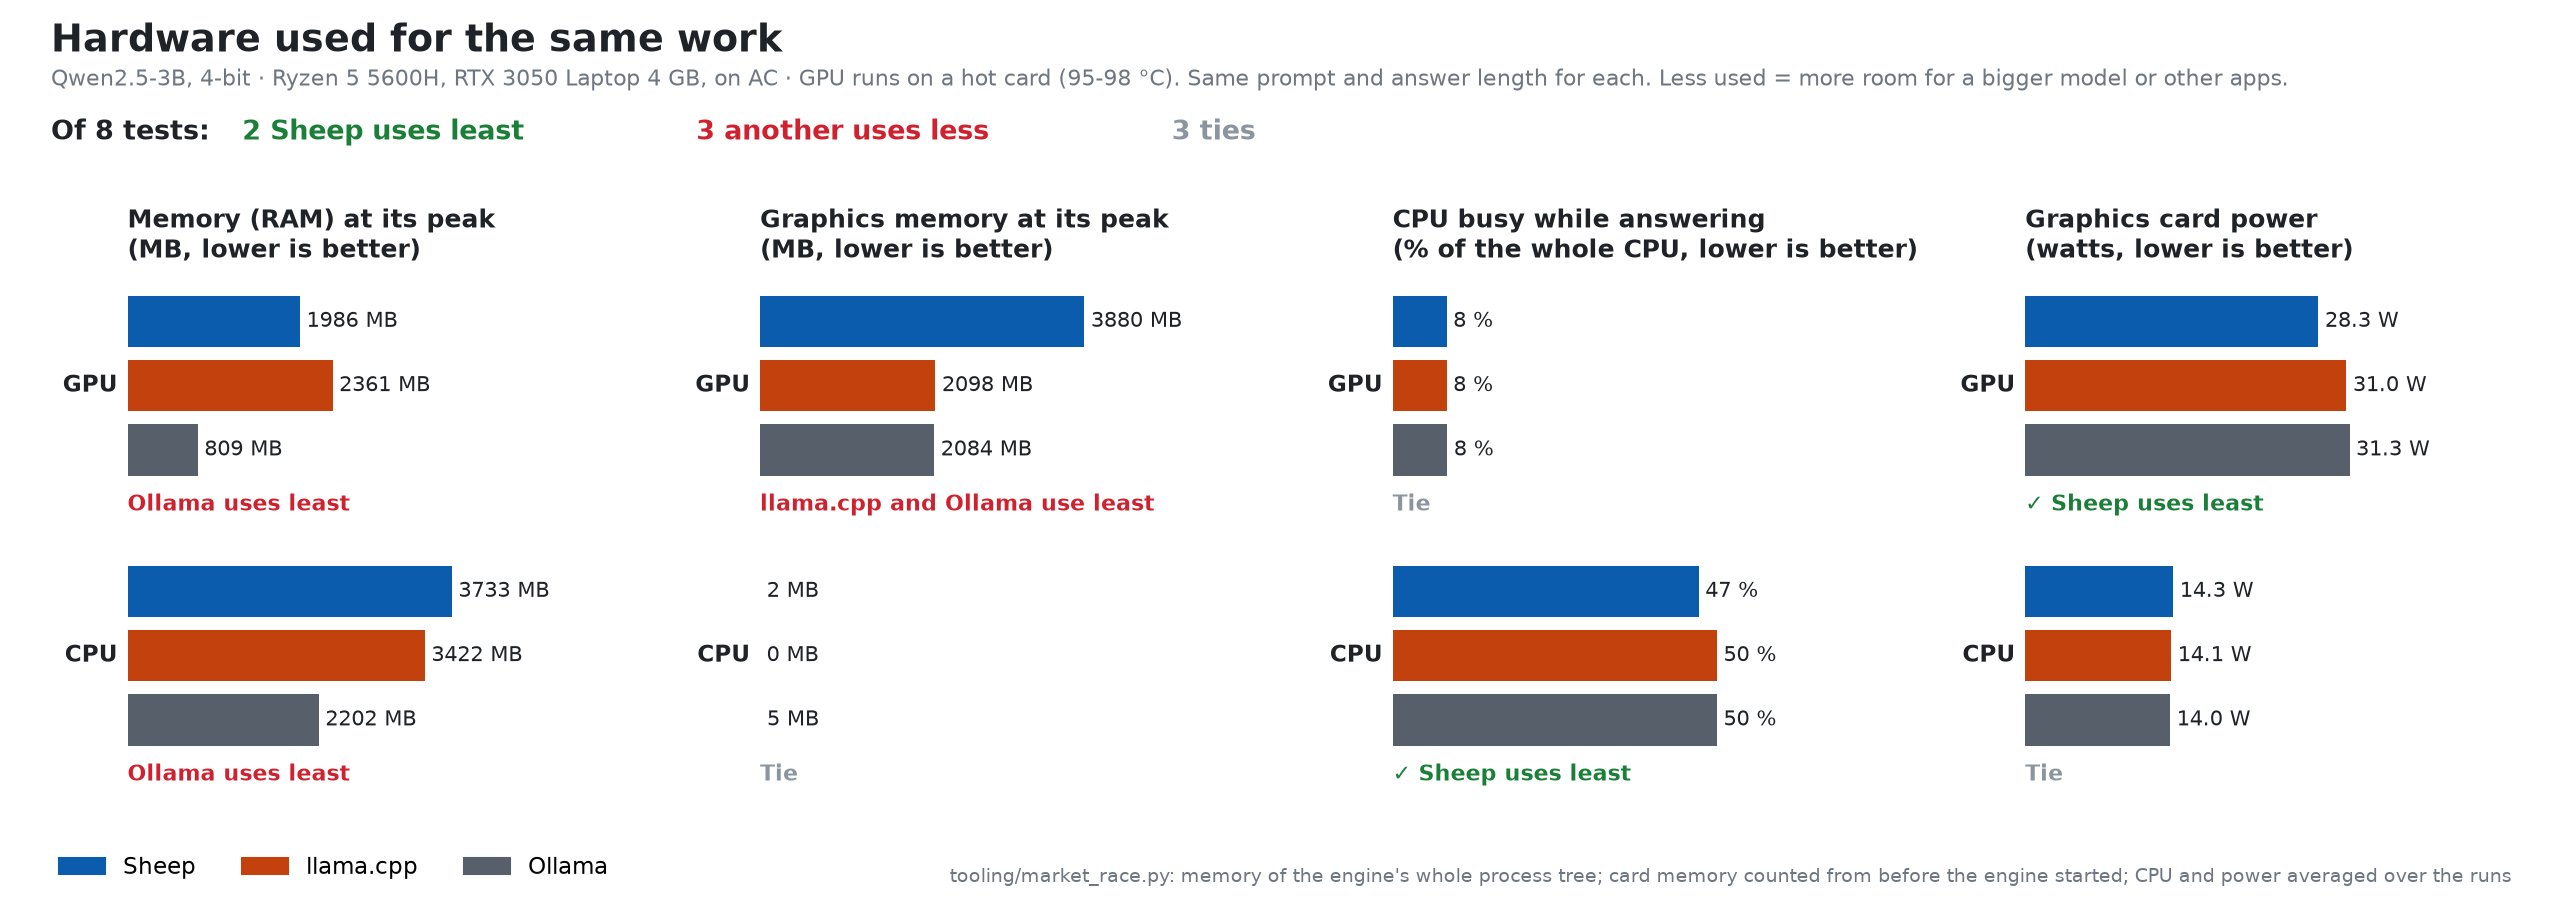
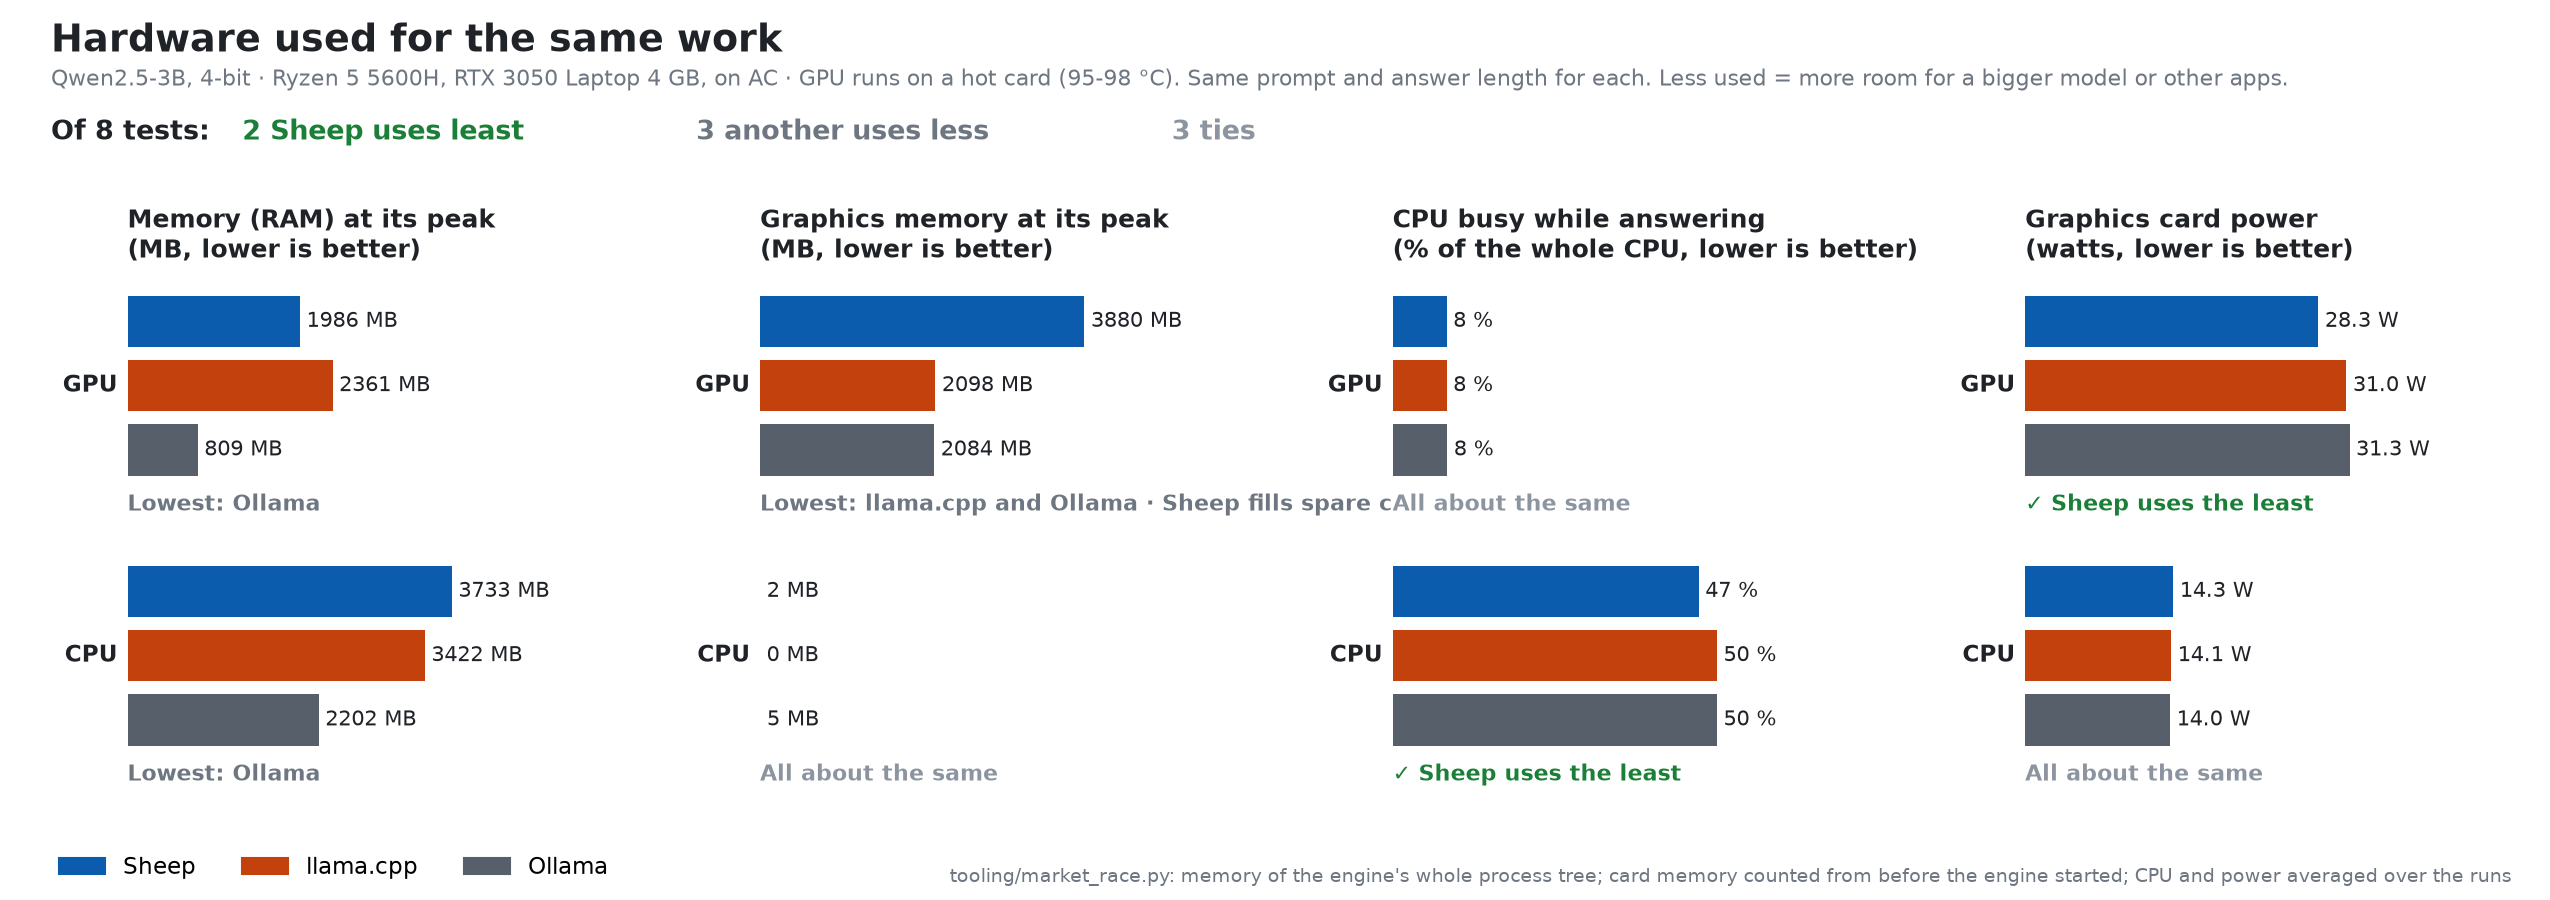
Heat: pause at 95 C on the graphics card (a hot shutdown at 13:52 with no pause logged). Race: an auto device (each engine splits a big model its own way). Hardware graph: neutral wording when another engine uses less

diff --git a/mlmi/desktop/ui/views.js b/mlmi/desktop/ui/views.js
@@ -507,8 +507,8 @@
             <div class="field" style="margin-top:6px"><span class="k">pictures, sound, video</span><span id="hMedia"></span></div>
             <div class="note" id="hMediaWhy"></div>
             <div class="field" style="margin-top:10px"><span class="k">heat guard</span><span class="inrow"><button class="switch" id="hHeat" title="Heat guard on or off"></button><span class="note" id="hHeatNow"></span></span></div>
-            <details class="adv"><summary>On: Sheep pauses only at 99 °C, so this computer does not shut down mid-work</summary>
-              <div class="note">Sheep watches this computer's temperature and runs everything at full speed. Only when the graphics card reaches 99 °C (or the processor sensor 103 °C) does it pause briefly to let it cool, then carry on. On battery, background checks wait for the charger so the charge goes to your own requests, and when the battery is low new GPU work waits too, so a power cut does not run the laptop flat while Sheep works.</div></details>
+            <details class="adv"><summary>On: Sheep pauses only at 95 °C, so this computer does not shut down mid-work</summary>
+              <div class="note">Sheep watches this computer's temperature and runs everything at full speed. Only when the graphics card reaches 95 °C (or the processor sensor 103 °C) does it pause briefly to let it cool, then carry on. On battery, background checks wait for the charger so the charge goes to your own requests, and when the battery is low new GPU work waits too, so a power cut does not run the laptop flat while Sheep works.</div></details>
             <div style="margin-top:10px"><div class="caps">What Sheep is set up for</div>
               <div class="note">Only a chat model is needed. Everything else is an optional extra: add it when you want that feature.</div>
               <ul id="hSetupList"></ul></div>

diff --git a/mlmi/desktop/ui/app.js b/mlmi/desktop/ui/app.js
@@ -125,7 +125,7 @@ const MLMI = (() => {
     S.rbOpen = expanded;
   }
   const readinessNames = { startup: "Model ready", canaries: "Answers checked", orientation: "Apps checked" };
-  const readinessStates = { "not started": "Not started", queued: "Starts in a moment", running: "In progress", passed: "Done", failed: "Needs a retry", blocked: "Unavailable", deferred: "Waiting for a quiet moment", "waiting for chat": "Paused while you chat", "waiting for quick exam": "Starts in a moment", "blocked by canary failures": "Waiting for an earlier check", "waiting for GPU": "Waiting for the GPU", "waiting for temperature": "Paused: the graphics card is at 99 °C; it carries on when it cools", "waiting for model load": "Waiting for model load" };
+  const readinessStates = { "not started": "Not started", queued: "Starts in a moment", running: "In progress", passed: "Done", failed: "Needs a retry", blocked: "Unavailable", deferred: "Waiting for a quiet moment", "waiting for chat": "Paused while you chat", "waiting for quick exam": "Starts in a moment", "blocked by canary failures": "Waiting for an earlier check", "waiting for GPU": "Waiting for the GPU", "waiting for temperature": "Paused: the graphics card is at 95 °C; it carries on when it cools", "waiting for model load": "Waiting for model load" };
   const readinessStages = { "probing this machine": "Checking this computer", planning: "Choosing a device", "starting the engine": "Starting the model", "retrying one app task": "Retrying one app task" };
   async function refresh() {
     try { S.state = await api("/api/state"); } catch (e) {

diff --git a/mlmi/desktop/ui/guide.js b/mlmi/desktop/ui/guide.js
@@ -14,7 +14,7 @@
     ["sheep", "Models in one place", "Settings › Models picks the model for chat, pictures, video and speech. Add any model: Sheep fits it to this computer and checks it before use."],
     ["check", "Fix buttons in chat", "If something is missing, the chat says what and shows a button to get it, then Try again. Choose another… picks a different model."],
     ["play", "Videos and ads", "Ask for a clip, or attach a video and ask what happens in it. Studio crops, splits, fades and turns photos into an ad."],
-    ["gauge", "Heat", "Sheep runs at full speed and pauses only if the graphics card reaches 99 °C, then carries on."],
+    ["gauge", "Heat", "Sheep runs at full speed and pauses only if the graphics card reaches 95 °C, then carries on."],
     ["mic", "Speak instead of typing", "Mic: press, speak, press again; your words appear in the box. Talk: a spoken conversation, where Sheep listens, answers aloud, and listens again. Works with any chat model."],
   ];
   const QUICK_PARTS = [

diff --git a/tooling/market_race.py b/tooling/market_race.py
@@ -179,7 +179,7 @@ class Sheep(Http):
     def start(self):
         self.file = SSF
         exe = ROOT / "sml" / "sml-server.exe"
-        dev = {"cpu": "cpu", "gpu": "gpu"}[self.device]
+        dev = {"cpu": "cpu", "gpu": "gpu", "auto": "gpu"}[self.device]
         self.proc = subprocess.Popen([str(exe), SSF, "--port", str(self.port), "--ctx", str(CTX), "--slots", "1",
                                       "--threads", os.environ.get("SHEEP_THREADS", str(THREADS)), "--device", dev,
                                       "--orchestrator", os.environ.get("SHEEP_ORCH", "off")],
@@ -200,8 +200,8 @@ class LlamaCpp(Http):
         self.file = GGUF
         exe = SERVER_CUDA if self.device == "gpu" else SERVER_CPU
         args = [exe, "-m", GGUF, "--port", str(self.port), "-c", str(CTX), "-np", "1", "-t", str(THREADS), "--jinja"]
-        args += ["-ngl", "99"] if self.device == "gpu" else ["-ngl", "0", "-dev", "none"]
-        env = dict(os.environ, **({} if self.device == "gpu" else {"CUDA_VISIBLE_DEVICES": "-1"}))
+        args += {"gpu": ["-ngl", "99"], "auto": [], "cpu": ["-ngl", "0", "-dev", "none"]}[self.device]
+        env = dict(os.environ, **({"CUDA_VISIBLE_DEVICES": "-1"} if self.device == "cpu" else {}))
         self.proc = subprocess.Popen(args, cwd=os.path.dirname(exe), env=env,
                                      stdout=subprocess.DEVNULL, stderr=subprocess.DEVNULL)
         wait_http(self.url + "/health", self.proc)
@@ -227,13 +227,14 @@ class Ollama(Http):
     def start(self):
         self.file = GGUF
         env = dict(os.environ, OLLAMA_HOST=f"127.0.0.1:{self.port}", OLLAMA_KEEP_ALIVE="30m", OLLAMA_MODELS=OLLAMA_MODELS,
-                   **({} if self.device == "gpu" else {"CUDA_VISIBLE_DEVICES": "-1"}))
+                   **({"CUDA_VISIBLE_DEVICES": "-1"} if self.device == "cpu" else {}))
         self.proc = subprocess.Popen([OLLAMA, "serve"], env=env, stdout=subprocess.DEVNULL, stderr=subprocess.DEVNULL)
         wait_http(self.url + "/api/version", self.proc)
         self.native([{"role": "user", "content": "hi"}], 1)      # load the model now: load time belongs to start
 
     def options(self, max_tokens, temperature):
-        return {"num_ctx": CTX, "num_thread": THREADS, "num_gpu": 99 if self.device == "gpu" else 0,
+        gpu = {"gpu": {"num_gpu": 99}, "cpu": {"num_gpu": 0}, "auto": {}}[self.device]
+        return {"num_ctx": CTX, "num_thread": THREADS, **gpu,
                 "num_predict": max_tokens, "temperature": temperature, "seed": 1}
 
     def native(self, messages, max_tokens, temperature=0):

diff --git a/tooling/benchmark_charts.py b/tooling/benchmark_charts.py
@@ -336,11 +336,13 @@ def hardware(out):
             slack = {"%": 0.5, "MB": 50, "W": 0.3}[unit]     # a few MB or a tenth of a watt is noise
             lead = [e for e, _, v in vals if v <= best * 1.02 + slack]
             if len(lead) == len(vals):
-                who, word, c = "tie", "Tie", TIE
+                who, word, c = "tie", "All about the same", TIE
             elif "Sheep" in lead:
-                who, word, c = "Sheep", "✓ Sheep uses least" + (" (tie)" if len(lead) > 1 else ""), WIN
+                who, word, c = "Sheep", "✓ Sheep uses the least" + (" (tied)" if len(lead) > 1 else ""), WIN
             else:
-                who, word, c = lead[0], f"{' and '.join(lead)} use{'s' if len(lead) == 1 else ''} least", LOSS
+                who, word, c = lead[0], f"Lowest: {' and '.join(lead)}", MUTED
+            if k == "peak_vram_mb" and dev == "gpu" and who != "Sheep":
+                word = word + " · Sheep fills spare card memory for speed"
             wins.append(who)
             ax.text(0, i * 4.2 + 2.85, word, va="center", fontsize=10.5, color=c, fontweight="bold")
             ax.text(-top * 0.03, i * 4.2 + 1, dev.upper(), va="center", ha="right", fontsize=11, color=INK,
@@ -352,7 +354,7 @@ def hardware(out):
         clean(ax)
         ax.set_title(t, loc="left", fontsize=12, color=INK, fontweight="bold")
     score(fig, [("Sheep uses least", wins.count("Sheep"), WIN),
-                ("another uses less", sum(w not in ("Sheep", "tie") for w in wins), LOSS),
+                ("another uses less", sum(w not in ("Sheep", "tie") for w in wins), MUTED),
                 ("tie", wins.count("tie"), TIE)], len(wins))
     fig.legend(handles=[plt.Rectangle((0, 0), 1, 1, color=c) for _, c in engines], labels=[e for e, _ in engines],
                loc="lower left", ncol=3, frameon=False, bbox_to_anchor=(0.015, 0.0))

diff --git a/mlmi/tests/test_readiness_panel.py b/mlmi/tests/test_readiness_panel.py
@@ -76,7 +76,7 @@ class ReadinessPanelTests(unittest.TestCase):
         self.assertIn("const hasCompletedWork = validNumber(c.done) && Number(c.done) > 0;", self.app)
         self.assertIn('const moving = c.state === "running" || String(c.state || "").startsWith("waiting for ");', self.app)
         # the heat guard reads CPU and GPU, so the label names neither (2026-10-12)
-        self.assertIn('"waiting for temperature": "Paused: the graphics card is at 99 °C; it carries on when it cools"', self.app)
+        self.assertIn('"waiting for temperature": "Paused: the graphics card is at 95 °C; it carries on when it cools"', self.app)
 
     def test_no_model_status_is_neutral_and_steady(self):
         self.assertIn("--status-neutral:#f4f4f4", self.css)

diff --git a/mlmi/backend/thermal.py b/mlmi/backend/thermal.py
@@ -36,7 +36,7 @@ LEVELS = ("cool", "warm", "hot", "critical")
 # GPU work), and power has its own guard below.
 # Ernest, 2026-10-27: "too rigid; let things run, only pause at 99". Hot is now the same line as
 # critical, so nothing rests or slows below it: warm (88) is shown, nothing more.
-GPU_AT = (88.0, 99.0, 99.0)
+GPU_AT = (88.0, 95.0, 95.0)   # Ernest, 2026-10-28: 95 after a hot shutdown at 13:52 with no pause logged
 CPU_AT = (97.0, 103.0, 103.0)
 # power: on battery the optional background work waits so the charge goes to the
 # person's own requests; low battery also holds new GPU work

diff --git a/mlmi/tests/test_thermal.py b/mlmi/tests/test_thermal.py
@@ -34,9 +34,9 @@ class LevelTests(unittest.TestCase):
         g.update(GC - R - 1, 60, 10, now=4)      # below the release: warm
         self.assertEqual(g.name, "warm")
 
-    def test_nothing_waits_or_slows_below_99(self):
+    def test_nothing_waits_or_slows_below_95(self):
         # 2026-10-27: "too rigid; let things run, only pause at 99"
-        self.assertEqual(GC, 99.0)
+        self.assertEqual(GC, 95.0)          # 2026-10-28: lowered to 95 after a hot shutdown
         g = gov()
         g.update(GC - 1, 60, 100, now=0)
         self.assertIsNone(g.background_wait(now=0))

diff --git a/docs/USER_GUIDE.md b/docs/USER_GUIDE.md
@@ -119,7 +119,7 @@ card. It is published privately first, with the original's licence.
 A new model first answers a short exam; Sheep is usable as soon as it passes (**Model ready**). Then check
 questions with known answers (**Answers checked**) and real jobs in Sheep's apps, each checked by opening what
 the model made (**Apps checked**). These run in the background, step aside whenever you ask something, and
-wait only when the graphics card reaches 99 °C or the computer runs on battery. A model that already passed on this computer, unchanged, skips
+wait only when the graphics card reaches 95 °C or the computer runs on battery. A model that already passed on this computer, unchanged, skips
 the checks it passed. **Settings › Activity** shows every check, row by row.
 
 Every reply is watched for faults: empty replies, loops, leaked markers, broken JSON or code. If a model
@@ -155,7 +155,7 @@ Intel graphics. Choose where text models run:
 A choice this computer cannot run is greyed out, with the reason on hover. If a graphics card fails, the reply
 finishes on the processor and Settings says why.
 
-The **heat guard** lets everything run at full speed and pauses only when the graphics card reaches 99 °C
+The **heat guard** lets everything run at full speed and pauses only when the graphics card reaches 95 °C
 (the processor sensor 103 °C), so the computer does not shut down in the middle of your work. On battery,
 background checks wait for the charger. After a new model is added, Sheep times it on each device here
 (speed trial) and tries a few engine settings (engine tune), keeping one only if the answer stays word
